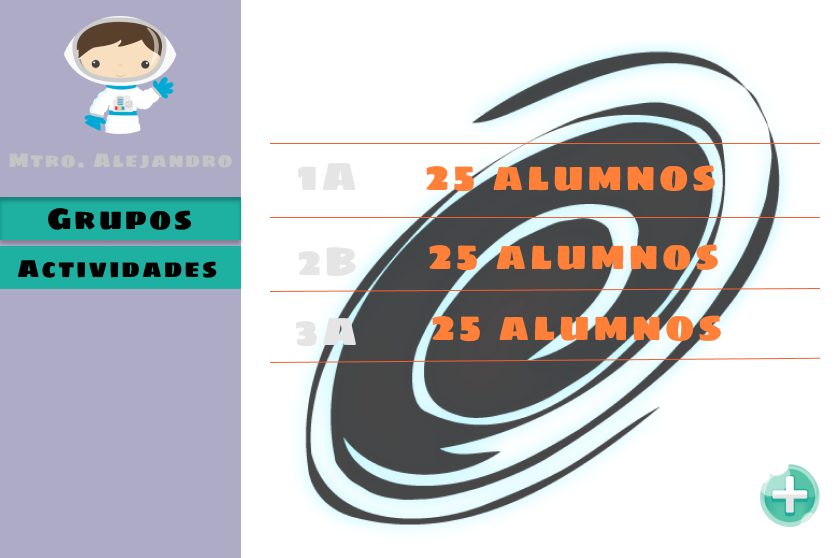
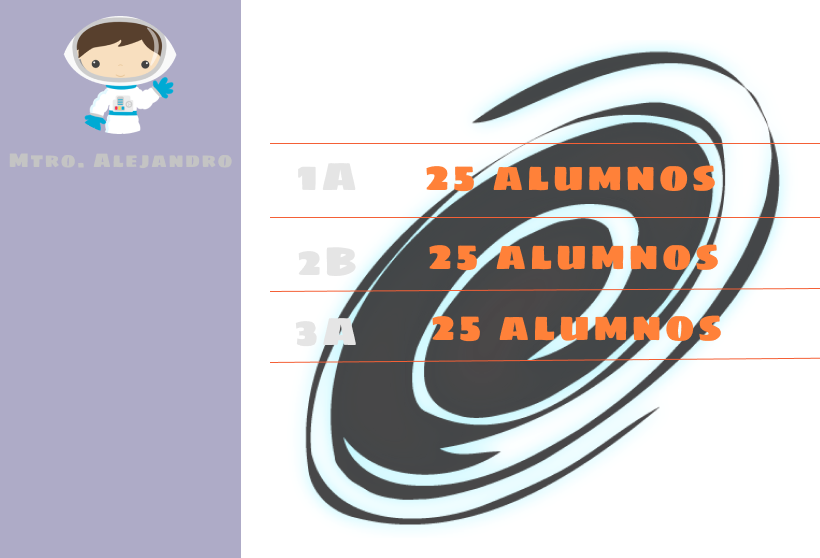
Registro

diff --git a/src/scenes/Scene_registro.js b/src/scenes/Scene_registro.js
@@ -6,10 +6,73 @@ class Scene_registro extends Phaser.Scene {
     preload() {
         console.log('Scene_registro');
         this.load.setPath('./assets/');
+
+        this.load.audio("whosh", "/sonidos/whosh4.mp3");
+        this.load.audio("next", "/sonidos/glitch-1.mp3");
+
+        this.load.image('guardar', '/Botones/guardar.png');
+        this.load.image('logo', 'logo.png');
+        this.load.image('formulario','/Registro/formulario.png');
+        this.load.image('cancelar','/Botones/cancelar.png');
+        this.load.image('back','back.png');
+        this.load.image('tnuevoUsuario','/Registro/tnuevoUsuario.png');
+       
+
+        this.load.audio("bback", "/sonidos/glitch-2.mp3");
     }
 
     create() {
-       
+        const keyCodes = Phaser.Input.Keyboard.KeyCodes;
+        const eventos = Phaser.Input.Events;
+
+        this.musicConf = {
+            volume: 0.3,
+            loop: false
+        };
+        this.musicConf2 = {
+            volume: 0.7,
+            loop: false
+        };
+        this.whosh = this.sound.add("whosh", this.musicConf);
+        this.next = this.sound.add("next", this.musicConf2);
+        this.bback = this.sound.add("bback", this.musicConf2);
+
+        this.back           = this.add.image(50,600,"back").setInteractive().setName('back').setDepth(2);
+        this.formulario     = this.add.image(500,330,"formulario").setDepth(1).setScale(1.2); 
+        this.guardar        = this.add.image(830,600,"guardar").setInteractive().setName('guardar').setDepth(2);
+        this.tnuevoUsuario  = this.add.image(500,45,"tnuevoUsuario").setDepth(2);
+        this.logo           = this.add.image(110,45,"logo").setScale(0.80).setDepth(2);
+        this.cancelar       = this.add.image(610,600,"cancelar").setInteractive().setName('cancelar').setDepth(2);
+
+
+        this.input.on(eventos.GAMEOBJECT_OVER, (pointer, gameObject) => {
+            if(gameObject.name == 'guardar' || gameObject.name == 'cancelar' || gameObject.name == 'back'){
+                gameObject.setScale(1.20);
+                this.whosh.play();
+            }
+        });
+
+        this.input.on(eventos.GAMEOBJECT_OUT, (pointer, gameObject) => {
+            if(gameObject.name == 'guardar' || gameObject.name == 'cancelar' || gameObject.name == 'back'){
+                gameObject.setScale(1.05);
+            }
+        });
+
+        this.guardar.on(eventos.POINTER_DOWN, () => {
+            this.scene.stop(this);
+            this.next.play();
+        });
+
+        this.cancelar.on(eventos.POINTER_DOWN, () => {
+            this.scene.stop(this);
+            this.next.play();
+        });
+
+        this.back.on(eventos.POINTER_DOWN, () => {
+            this.scene.stop(this);
+            this.scene.start('Bootloader');
+            this.bback.play();
+        });
     }
 }
 export default Scene_registro;

diff --git a/src/scenes/Scene_grupos.js b/src/scenes/Scene_grupos.js
@@ -15,7 +15,7 @@ class Scene_grupos extends Phaser.Scene {
         this.load.image('logo', 'logo.png');
         this.load.image('tabla_grupos','tabla_grupos.png');
         this.load.image('menu','menu.png');
-        //this.load.image('btn_actividades','actividades.png');
+        this.load.image('btn_actividades','actividades.png');
         this.load.image('plus','/Botones/plus.png');
         this.load.image('back','back.png');
         this.load.image('tgrupos','tgrupos.png');
@@ -41,20 +41,21 @@ class Scene_grupos extends Phaser.Scene {
 
         this.back           = this.add.image(50,120,"back").setInteractive().setName('back').setDepth(2);
         this.menu           = this.add.image(500,330,"menu").setDepth(1).setScale(1.2); 
-        this.agregar        = this.add.image(950,600,"plus");
-        this.tgrupos        = this.add.image(700,50,"tgrupos");
-        this.logo           = this.add.image(100,550,"logo");
+        this.agregar        = this.add.image(950,600,"plus").setInteractive().setName('agregar').setDepth(2);
+        this.tgrupos        = this.add.image(675,50,"tgrupos").setDepth(2);
+        this.logo           = this.add.image(135,610,"logo").setScale(0.80).setDepth(2);
+        this.btn_actividades = this.add.image(150,300,"btn_actividades").setInteractive().setName('btn_actividades').setDepth(2);
 
         this.input.on(eventos.GAMEOBJECT_OVER, (pointer, gameObject) => {
-            if(gameObject.name == 'agregar' || gameObject.name == 'eliminar' || gameObject.name == 'modificar'){
-                gameObject.setScale(1.10);
+            if(gameObject.name == 'agregar' || gameObject.name == 'eliminar' || gameObject.name == 'back' || gameObject.name == 'btn_actividades'){
+                gameObject.setScale(1.30);
                 this.whosh.play();
             }
         });
 
         this.input.on(eventos.GAMEOBJECT_OUT, (pointer, gameObject) => {
-            if(gameObject.name == 'agregar' || gameObject.name == 'eliminar' || gameObject.name == 'modificar'){
-                gameObject.setScale(1);
+            if(gameObject.name == 'agregar' || gameObject.name == 'eliminar' || gameObject.name == 'back' || gameObject.name == 'btn_actividades'){
+                gameObject.setScale(1.20);
             }
         });
 
@@ -62,6 +63,18 @@ class Scene_grupos extends Phaser.Scene {
             this.scene.stop(this)
             this.scene.start('Scene_agregarGrupos');
             this.next.play();
+        });
+
+        this.btn_actividades.on(eventos.POINTER_DOWN, () => {
+            this.scene.stop(this)
+            this.scene.start('Scene_mapa');
+            this.next.play();
+        });
+
+        this.back.on(eventos.POINTER_DOWN, () => {
+            this.scene.stop(this)
+            this.scene.start('Scene_login');
+            this.bback.play();
         });
 
     }

diff --git a/src/scenes/Scene_mapa.js b/src/scenes/Scene_mapa.js
@@ -124,6 +124,12 @@ class Scene_mapa extends Phaser.Scene {
             }
         });
 
+        this.btonLast.on(eventos.POINTER_DOWN, () => {
+            this.scene.stop(this)
+            this.scene.start('Scene_grupos');
+            //this.next.play();
+        });
+
     }
 }
 export default Scene_mapa;

diff --git a/src/scenes/Scene_agregarGrupo.js b/src/scenes/Scene_agregarGrupo.js
@@ -6,6 +6,8 @@ class Scene_agregarGrupo extends Phaser.Scene {
     preload() {
         console.log('Scene_agregarGrupo');
         this.load.setPath('./assets/');
+
+        
     }
 
     create() {
